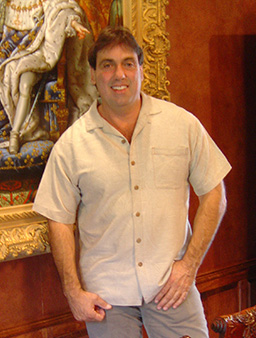
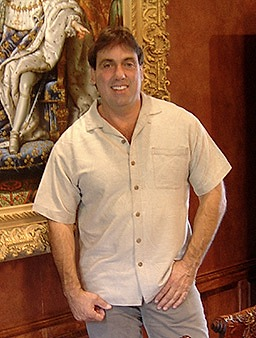
Polish pass: drop coords from footer/capabilities, curly quotes, photo grade
- Footer base bar: removed the surveyor coordinates string. Matches the
  hero edit. Kept Privacy / Terms links and copyright.
- Capabilities one-pager: removed the same coordinates line from the
  print footer; tagline stands on its own.
- Counties index CTA copy: 'north Georgia' -> 'North Georgia' (regional
  proper noun, matches the rest of the site).
- Marty quote on Home and About: straight quotes/apostrophes upgraded
  to typographic curly quotes and em-dash. Reads as edited prose now,
  not raw keyboard input.
- Marty bio photo: light grade (saturation -22%, contrast lift, subtle
  sharpen). Softens the busy ornate background behind him without
  cropping, makes the portrait read more editorial.

diff --git a/app/(marketing)/capabilities/page.tsx b/app/(marketing)/capabilities/page.tsx
@@ -216,9 +216,6 @@ export default function CapabilitiesPage() {
           <p className="text-xs">
             {company.tagline}
           </p>
-          <p className="text-xs tabular-nums tracking-[0.15em]">
-            34.0963&deg; N &middot; 84.0001&deg; W
-          </p>
         </div>
 
         {/* Print button (hidden in print) */}

diff --git a/components/layout/Footer.tsx b/components/layout/Footer.tsx
@@ -133,9 +133,6 @@ export default function Footer() {
           <div className="flex items-center gap-5 text-xs" style={{ color: "var(--color-text-muted)" }}>
             <Link href="/privacy" className="hover:text-[color:var(--color-gold)] transition-colors">Privacy</Link>
             <Link href="/terms" className="hover:text-[color:var(--color-gold)] transition-colors">Terms</Link>
-            <span className="tracking-[0.15em] tabular-nums">
-              34.0963° N&nbsp;&nbsp;84.0001° W &nbsp;·&nbsp; Buford, Georgia
-            </span>
           </div>
         </div>
       </div>

diff --git a/app/(marketing)/about/page.tsx b/app/(marketing)/about/page.tsx
@@ -131,7 +131,7 @@ export default async function AboutPage() {
                   className="text-2xl md:text-3xl font-display font-bold leading-snug mb-12 pl-8"
                   style={{ borderLeft: "3px solid var(--color-gold)", color: "var(--color-gold-light)" }}
                 >
-                  "The value isn't in the land you buy — it's in what you're able to turn it into."
+                  &ldquo;The value isn&rsquo;t in the land you buy &mdash; it&rsquo;s in what you&rsquo;re able to turn it into.&rdquo;
                 </blockquote>
               </AnimatedSection>
               <AnimatedSection delay={0.2}>

diff --git a/app/(marketing)/counties/page.tsx b/app/(marketing)/counties/page.tsx
@@ -165,7 +165,7 @@ export default function CountiesIndexPage() {
               We buy land anywhere in Georgia.
             </h2>
             <p className="text-base mb-10 max-w-2xl mx-auto" style={{ color: "var(--color-text-muted)", lineHeight: 1.8 }}>
-              Our portfolio is concentrated in metro Atlanta and north Georgia, but our buy
+              Our portfolio is concentrated in metro Atlanta and North Georgia, but our buy
               box is the entire state. If you have land for sale anywhere in Georgia, we want
               to hear about it.
             </p>

diff --git a/app/(marketing)/page.tsx b/app/(marketing)/page.tsx
@@ -245,7 +245,7 @@ export default async function HomePage() {
             {/* Pull quote */}
             <blockquote className="mb-8 pl-6" style={{ borderLeft: "2px solid var(--color-gold)" }}>
               <p className="text-lg italic leading-relaxed" style={{ color: "rgba(255,255,255,0.5)" }}>
-                "The value isn't in the land you buy — it's in what you're able to turn it into."
+                &ldquo;The value isn&rsquo;t in the land you buy &mdash; it&rsquo;s in what you&rsquo;re able to turn it into.&rdquo;
               </p>
               <footer className="mt-3 text-[10px] tracking-[0.2em] uppercase" style={{ color: "var(--color-gold)" }}>
                 — Marty D. Orr, Founder